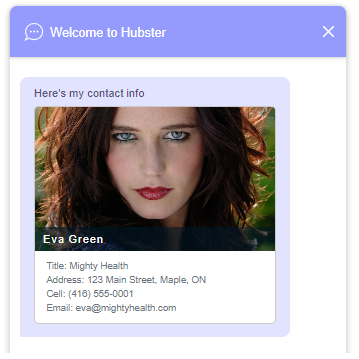
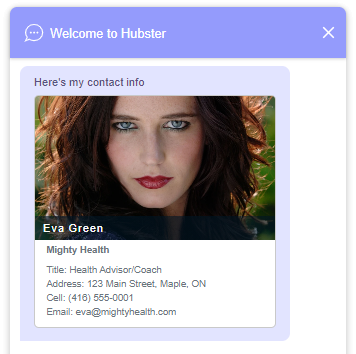
commit

Changed region(s): [[0.0309, 0.0311, 0.9888, 0.9633], [0.0618, 0.0621, 0.4635, 0.1243], [0.0309, 0.0, 0.0618, 0.0311]]

diff --git a/docs/api/4_activities.rst b/docs/api/4_activities.rst
@@ -164,6 +164,13 @@ Message Types
 An activity **message** supports the following **types**. Messages are an activity's first-class-citizen 
 as they make up the majority of events being sent and received between integrations.
 
+Header
+~~~~~~
+
+TODO
+
+
+
 Text
 ~~~~
 
@@ -245,7 +252,7 @@ Sources allowed to send: **customer**, **agent** and **bot**.
                 "properties": [
                   { 
                     "key": "Title",
-                    "value": "Mighty Health"
+                    "value": "Health Advisor/Coach"
                   },
                   {
                     "key": "Address",
@@ -282,7 +289,7 @@ Sources allowed to send: **customer**, **agent** and **bot**.
             ]
           }          
 
-      - .. image:: images/activity_text_ex_02.png            
+      - .. image:: images/activity_text_ex_02.png          
 
     * - .. code-block:: JSON
 
@@ -695,7 +702,7 @@ Sources allowed to send: **customer**, **agent** and **bot**.
 
           {
             "type": "location",
-            "address": "2640 Matheson Blvd E, Mississauga, ON L4W5S4",
+            "address": "2640 Matheson, Mississauga, ON",
             "latitude": 43.8425254,
             "longitude": -79.5240196
           }  
@@ -703,15 +710,116 @@ Sources allowed to send: **customer**, **agent** and **bot**.
       - .. image:: images/activity_location_ex_01.png
 
 .. note:: 
-    Either a fully qualified **address** or **latitude/longitude** coordinate values must be supplied. 
-    If both are supplied, Hubster will resort to using the **latitude/longitude** coordinate values as the preferred option. 
+    Either a fully qualified **address** or a set of **latitude/longitude** coordinates must be supplied. 
+    If both **address** or **latitude/longitude** are supplied, Hubster will resort to using 
+    the **latitude/longitude** coordinates as the preferred option. 
     
-    Please note, if using **latitude/longitude** coordinates, it may yield a different **address** than what is supplied. 
-    Try be be as exact as possible.
+    Please note, when using **latitude/longitude** coordinates, Hubster will try to yield the appropriate address. 
+    However, if the address yielded is not exact, then the **latitude/longitude** coordinates may be off. 
+    Alternatively, you can always use the **address** property without the need to provide **latitude/longitude** coordinates.
 
 
 Contact
 ~~~~~~~
+
+Sources allowed to send: **customer**, **agent** and **bot**.
+
+.. list-table::
+    :widths: 5 10 50
+    :header-rows: 1   
+  
+    * - Property     
+      - Mandatory
+      - Description
+    * - type
+      - Yes
+      - Must be **contact**.
+    * - imageUrl
+      - No
+      - The image url to the contact.
+    * - title
+      - Yes
+      - At minimum, the contact message requires a title. i.e. Person's name, company name, job title, etc.
+    * - subtitle
+      - No
+      - A subtitle for the contact. i.e. company name, job title, etc.
+    * - properties
+      - No
+      - | A tuplet made out of key/value/type set that can used to provide more metadata for the contact. See example.
+        |
+
+        .. note:: 
+            The **type** portion of the tuplet is not required, however, if used, can provide additional 
+            metadata for certain property types. For example, if Hubster detects that a 
+            recipient device supports **vcards**, such as an SMS device, Hubster will create a 
+            contact element, allowing the recipient of the message to store the contact to their device's contact list.
+            
+            Hubster supports the following **vcard** types and their counterpart:
+            
+            * address; ``work``, ``home``
+            * phone; ``work``, ``home``, ``cell``
+            * email
+    * - channels
+      - No
+      - Channel specific applied properties. The example below shows how to render 
+        the title on a **Webchat** channel.
+    
+
+    
+**Example**
+
+.. list-table::
+    :widths: 10 200
+    :header-rows: 1   
+
+    * - Request          
+      - View
+    * - .. code-block:: JSON
+
+          {
+            "type": "contact",
+            "imageUrl": "https://site.com/eva.png",
+            "title": "Eva Green",
+            "subtitle": "Mighty Health",
+            "properties": [
+              { 
+                "key": "Title",
+                "value": "Health Advisor/Coach"
+              },
+              {
+                "key": "Address",
+                "value": "123 Main Street, Maple, ON",
+                "type": "address;work"
+              },
+              {
+                "key": "Cell",
+                "value": "(416) 555-0001",
+                "type": "phone;cell"
+              },
+              {
+                "key": "Email",
+                "value": "eva@mightyhealth.com",
+                "type": "email"
+              }
+            ],
+            "channels": [
+              {
+                "type": "Webchat",
+                "metadata": [
+                  {
+                    "key": "caption-show",
+                    "value": "true"
+                  },
+                  {
+                    "key": "caption-color",
+                    "value": "white"
+                  }
+                ]
+              }
+            ]
+          }           
+
+      - .. image:: images/activity_contact_ex_01.png
 
 Card       
 ~~~~

diff --git a/docs/guide/1_webchat_config.rst b/docs/guide/1_webchat_config.rst
@@ -256,7 +256,9 @@ Configuration
         | *onBeforeActivitySend(activity: Activity): boolean;*
 
         .. note:: 
-            | Typically this event is used when the user presses a **postback** button event. The **payload** of the postback may contain a special action that  programer can then inspect and preform a local action on the browser.
+            Typically this event is used when the user presses a **postback** button event. 
+            The **payload** of the postback may contain a special action that  programer can then inspect and preform a 
+            local action on the browser.
 
     * - onConversation
       - No
